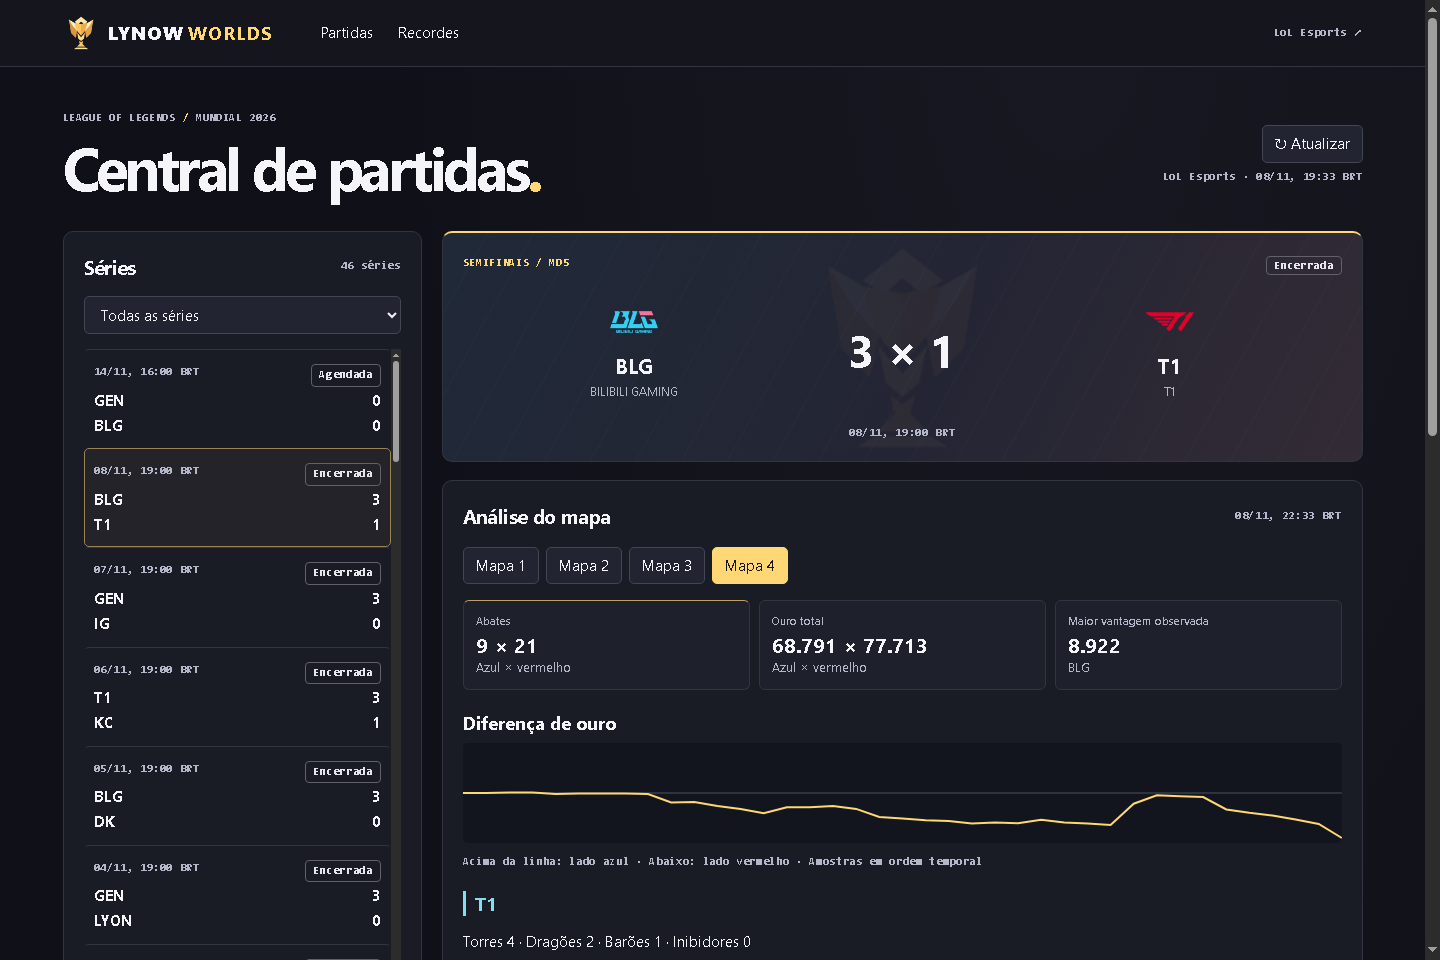
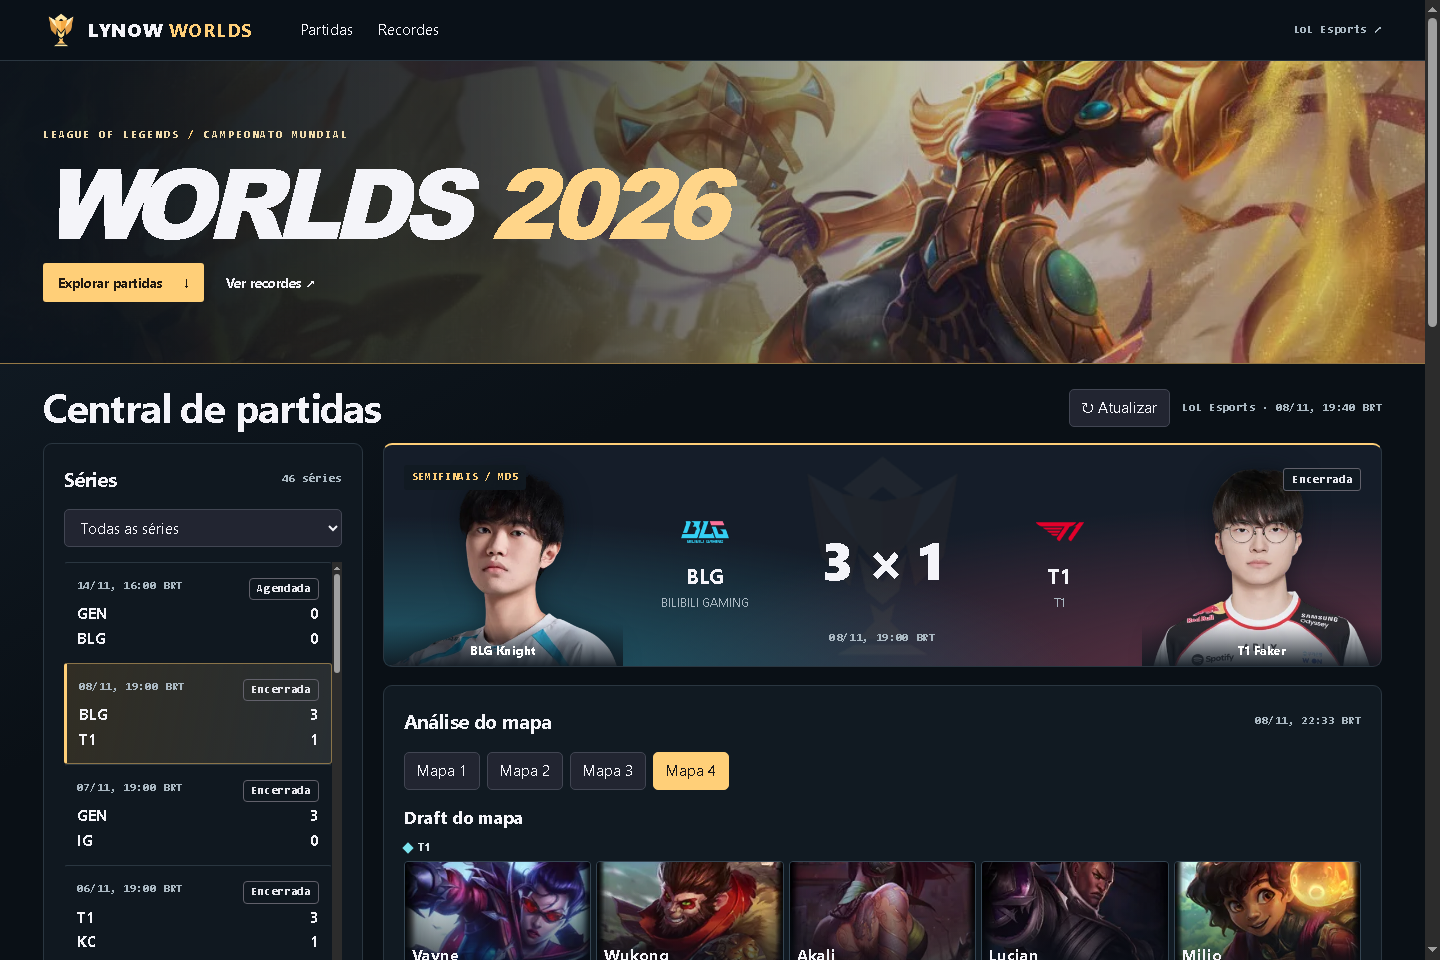
feat: redesenha a central com retratos dos atletas e draft interativo

diff --git a/public/style.css b/public/style.css
@@ -475,3 +475,69 @@ nav a:hover {
     grid-template-columns: minmax(0, 1fr);
   }
 }
+
+/* Championship broadcast identity */
+:root { --bg:#0a1016; --card:#111a22; --line:#2a3640; --gold:#ffcf78; --muted:#aab8c2; }
+body { background:linear-gradient(150deg,#15212c 0,#0a1016 45rem); }
+header { background:#0a1118; }
+.shell { width:min(1380px,94%); }
+.mast { height:60px; }
+.hero { position:relative; isolation:isolate; overflow:hidden; background:#1b2329; border-bottom:1px solid #967946; }
+.hero::before { content:""; position:absolute; inset:0; z-index:-1; background:linear-gradient(90deg,#0a131cf7 4%,#10161bc9 37%,#10182028 70%),url("/media/art/shurima.webp") center 38% / cover; }
+.hero-inner { min-height:clamp(220px,21vw,320px); display:flex; align-items:center; }
+.hero-copy { padding:28px 0; }
+.hero small { font-size:.72rem; letter-spacing:.19em; color:#f1dcac; }
+.hero h1 { margin:12px 0 18px; font:italic 950 clamp(3rem,6.8vw,7rem)/.91 "Arial Black","Segoe UI",sans-serif; letter-spacing:-.075em; }
+.hero h1 i { color:#ffd589; }
+.hero-links { display:flex; align-items:center; gap:22px; font-size:.88rem; font-weight:650; }
+.hero-links a:first-child { padding:10px 15px; background:#ffcf78; color:#211a11; border-radius:3px; }
+.hero-links span { margin-left:16px; }
+.intro { padding:24px 0 15px; }
+.intro h2 { font-size:clamp(1.65rem,3vw,2.65rem); line-height:1; }
+.sync { display:flex; align-items:center; gap:12px; }
+.card,.match { border-radius:9px; }
+@media(min-width:761px){.layout{grid-template-columns:minmax(220px,.64fr) minmax(0,2fr)}}
+.agenda { background:#101820; }
+.agenda .event { padding:12px; border-radius:3px; }
+.agenda .selected { background:linear-gradient(100deg,#66512b62,#282e32); border-color:#8b7449; border-left:3px solid var(--gold); }
+.match { background:radial-gradient(ellipse at 0% 110%,#246678 0,transparent 50%),radial-gradient(ellipse at 100% 110%,#6d3548 0,transparent 54%),#151d29; }
+.matchtop,.matchdate,.score { position:relative; z-index:2; }
+.matchtop small,.matchtop .badge { background:#111a22ec; border-radius:3px; padding:4px 8px; }
+.score { width:60%; margin:auto; min-height:140px; gap:8px; }
+.scoreline { font-variant-numeric:tabular-nums; font-size:clamp(1.6rem,3.6vw,3.6rem); font-weight:850; }
+.star { position:absolute; bottom:0; width:24%; height:90%; margin:0; pointer-events:none; }
+.star-0 {left:0}.star-1 {right:0}
+.star img {width:100%;height:100%;object-fit:contain;object-position:center bottom;filter:drop-shadow(0 0 12px #080d1388)}
+.star figcaption {position:absolute; bottom:0; left:0; right:0; padding:18px 4px 7px; text-align:center; color:white; background:linear-gradient(transparent,#101820ed);font-weight:800;font-size:.79rem}
+.draft h3 {margin:0;font-size:1.1rem}.draft-label {display:flex;align-items:center;gap:6px;color:#dce6eb;font-size:.76rem;font-weight:700;margin:10px 0 5px;}
+.dot {width:8px;height:8px;display:inline-block;transform:rotate(45deg)}.side-dot-0{background:#7ce4ef}.side-dot-1{background:#ff96ac}
+.picks {display:grid;grid-template-columns:repeat(5,minmax(0,1fr));gap:5px;}
+.pick {position:relative;isolation:isolate;overflow:hidden;height:clamp(80px,8.6vw,138px);background:#23303b;border-radius:4px;}
+.pick img {position:absolute;inset:0;width:100%;height:100%;object-fit:cover;object-position:50% 26%;z-index:-2;transition:transform .2s;}
+.pick:hover img {transform:scale(1.05)}
+.pick:after {content:"";position:absolute;inset:0;z-index:-1;background:linear-gradient(transparent 23%,#091018dc 93%);}
+.pick div {position:absolute;bottom:6px;left:7px;right:3px;}
+.pick small,.pick strong{display:block;line-height:1.15;overflow-wrap:anywhere}.pick small{font:500 .69rem/1.3 "Segoe UI",sans-serif;color:#d4dce1;letter-spacing:0}
+.pick strong{font-size:clamp(.74rem,1.1vw,1.04rem)}
+.draft {margin-bottom:20px}
+.metric {background:#19242e;border-color:#35424d}
+#records {grid-template-columns:repeat(3,minmax(0,1fr));gap:10px}
+.record-tile {position:relative;overflow:hidden;background:linear-gradient(125deg,#17232e,#273848);border:1px solid var(--line);border-radius:6px}
+.record-tile img {position:absolute;right:0;bottom:0;height:96%;width:45%;object-fit:contain;object-position:right bottom;}
+.record-tile .metric {position:relative;background:linear-gradient(90deg,#192530 45%,transparent 80%);border:0;min-height:108px;padding:17px;}
+.record-tile strong {font-size:1.85rem;line-height:1.25;color:#ffdb97}
+.player-id{display:flex;align-items:center;gap:9px}.player-id img{width:39px;height:43px;object-fit:cover;object-position:top;border-radius:4px;background:#293845}
+#analysis>p>a{color:var(--gold)}
+@media(max-width:760px){.hero-inner{min-height:188px}.hero::before{background-position:center,62% 33%}.intro{align-items:center}.sync{display:grid;gap:3px}.agenda #events{max-height:140px}.score{width:64%;min-height:128px}.team img{width:32px;height:32px}.star{width:21%;height:74%}.star figcaption{font-size:.65rem}.pick{height:90px}.pick div{left:4px}.pick small{font-size:.6rem}#records{grid-template-columns:repeat(2,minmax(0,1fr))}.hero small{letter-spacing:.09em}.intro #sync{font-size:.57rem}.record-tile .metric{padding:10px}.team span{font-size:.65rem}}
+@media(prefers-reduced-motion:reduce){.pick img{transition:none}}
+.pick{text-align:left;padding:0;border:1px solid #344451;}
+.pick:focus-visible{outline-offset:0}
+#player-sheet{padding:0;width:min(490px,92vw);overflow:hidden;color:#f8f8fa;background:#131e28;border:1px solid #67717a;border-radius:10px;}
+#player-sheet::backdrop{background:#070b10cc;backdrop-filter:blur(3px)}
+#player-sheet form{position:absolute;top:8px;right:8px;z-index:2}#player-sheet form button{font-size:1.45rem;padding:0 9px;background:#111b25}
+.sheet-hero{position:relative;isolation:isolate;overflow:hidden;height:235px;display:flex;align-items:end;padding:20px;}
+.sheet-art{position:absolute;z-index:-2;inset:0;width:100%;height:100%;object-fit:cover;object-position:50% 25%;opacity:.44}
+.sheet-photo{position:absolute;z-index:-1;right:0;bottom:0;height:95%;width:56%;object-fit:contain;object-position:bottom}
+.sheet-hero div{background:linear-gradient(90deg,#0c131ce6,transparent);padding:8px 16px 8px 0}
+.sheet-hero h2{font-size:2.2rem;line-height:1.05}.sheet-hero strong{color:var(--gold)}
+.sheet-stats{padding:12px;display:grid;grid-template-columns:repeat(3,1fr);gap:6px}

diff --git a/public/app.js b/public/app.js
@@ -1,5 +1,33 @@
 "use strict";
 const $ = (id) => document.getElementById(id);
+let catalog = {players:{}, champions:{}};
+let currentTeams = [];
+function portrait(name) { return catalog.players[name?.trim()]?.src; }
+function championArt(name) { return catalog.champions[name]?.src; }
+function championName(id) {
+  const names = {MonkeyKing:"Wukong", JarvanIV:"Jarvan IV", KSante:"K’Sante", Kaisa:"Kai’Sa", KogMaw:"Kog’Maw", Chogath:"Cho’Gath", Velkoz:"Vel’Koz", Leblanc:"LeBlanc", Renata:"Renata Glasc"};
+  return names[id] || id?.replace(/([a-z])([A-Z])/g,"$1 $2") || "A definir";
+}
+function lineups(teams) {
+  return '<section class="draft"><h3>Draft do mapa</h3>' + teams.map((team,side) =>
+    '<div class="draft-label"><i class="dot side-dot-' + side + '"></i>' + esc(team.name) + '</div><div class="picks">' +
+    team.players.map((p,index) => {
+      const art = championArt(p.champion);
+      return '<button class="pick" data-side="'+side+'" data-player="'+index+'" aria-label="Abrir ficha de '+esc(p.name)+' com '+esc(p.champion)+'">' + (art ? '<img src="'+esc(art)+'" alt="" loading="lazy">' : '') +
+        '<div><strong>'+esc(championName(p.champion))+'</strong><small>'+esc(p.name?.trim() || '')+'</small></div></button>';
+    }).join('') + '</div>').join('')+'</section>';
+}
+function spotlight(teams) {
+  const selected = events.find(e => e.id === eventId);
+  if (!selected) return;
+  const match = document.querySelector(".match");
+  match.querySelectorAll(".star").forEach(el => el.remove());
+  selected.teams.forEach((team,side) => {
+    const roster = teams.find(t => t.players?.some(p => p.name?.startsWith(team.code+" ")))?.players || [];
+    const player = [roster.find(p=>p.role==="mid"),...roster].find(p=>p && portrait(p.name));
+    if (player) match.insertAdjacentHTML("beforeend",'<figure class="star star-'+side+'"><img src="'+esc(portrait(player.name))+'" alt="'+esc(player.name.trim())+'"><figcaption>'+esc(player.name.trim())+'</figcaption></figure>');
+  });
+}
 const esc = (value) =>
   String(value ?? "").replace(
     /[&<>"']/g,
@@ -113,6 +141,7 @@ function list() {
       .join("") || "Nenhuma série neste filtro.";
 }
 function renderScore(e) {
+  document.querySelectorAll(".match .star").forEach(el=>el.remove());
   const stage = stages[e?.stage] || e?.stage || "Série selecionada";
   $("stage").textContent = [
     stage.replaceAll("_", " ").toUpperCase(),
@@ -219,7 +248,7 @@ function playerRow(player) {
     ? `<small title="Parcela do dano da equipe">${esc(share)} do time</small>`
     : "";
   return `<tr>
-    <td>${esc(name || "—")}<small>${esc(champion || "Escolha pendente")}</small></td>
+    <td><div class="player-id">${portrait(name)?'<img loading="lazy" src="'+esc(portrait(name))+'" alt="">':''}<div>${esc(name || "—")}<small>${esc(champion || "Escolha pendente")}</small></div></div></td>
     <td>${esc(kda)}</td><td>${esc(fmt(gold))}</td><td>${esc(fmt(damage))}${damageCell}</td>
     <td>${esc(fmt(cs))}</td><td>${esc(fmt(wards))} / ${esc(fmt(wardsDestroyed))}</td>
   </tr>`;
@@ -227,12 +256,15 @@ function playerRow(player) {
 function renderGame(data) {
   const teams = data.teams || [],
     peak = data.peak;
+  currentTeams = teams;
   $("sample").textContent = data.timestamp ? when(data.timestamp) : "";
   let html = data.notice ? "<p>" + esc(data.notice) + "</p>" : "";
   if (!teams.length) {
     $("analysis").innerHTML = html + "Sem telemetria para este mapa.";
     return;
   }
+  spotlight(teams);
+  html += lineups(teams);
   html +=
     '<div class="metrics">' +
     metric(
@@ -338,7 +370,10 @@ async function records() {
     $("coverage").textContent = data.coverage || "";
     $("records").innerHTML =
       (data.records || [])
-        .map((r) => metric(r.label, fmt(r.value), r.name))
+        .map((r) => {
+          const photo=portrait(r.name);
+          return '<div class="record-tile">'+(photo?'<img loading="lazy" src="'+esc(photo)+'" alt="">':'')+metric(r.label,fmt(r.value),r.name)+'</div>';
+        })
         .join("") || "Nenhum recorde disponível para a cobertura atual.";
   } catch (err) {
     $("records").textContent = err.message;
@@ -387,13 +422,31 @@ $("maps").onclick = (e) => {
   const b = e.target.closest("[data-id]");
   if (b) openMap(b.dataset.id);
 };
+$("analysis").addEventListener("click", e => {
+  const pick = e.target.closest(".pick");
+  if (!pick) return;
+  const team = currentTeams[Number(pick.dataset.side)];
+  const player = team?.players[Number(pick.dataset.player)];
+  if (!player) return;
+  const photo = portrait(player.name), art = championArt(player.champion);
+  $("sheet-content").innerHTML = '<div class="sheet-hero">'+(art?'<img class="sheet-art" src="'+esc(art)+'" alt="">':'')+
+    (photo?'<img class="sheet-photo" src="'+esc(photo)+'" alt="'+esc(player.name)+'">':'')+
+    '<div><small>'+esc(team.name)+'</small><h2 id="sheet-name">'+esc(player.name.trim())+'</h2><strong>'+esc(championName(player.champion))+'</strong></div></div>'+
+    '<div class="sheet-stats">'+[["Abates",player.kills],["Mortes",player.deaths],["Assistências",player.assists],["Dano",player.damage],["Ouro",player.gold],["CS",player.cs]].map(([k,v])=>metric(k,fmt(v))).join('')+'</div>';
+  $("player-sheet").showModal();
+});
 $("filter").onchange = () => openEvent(visible()[0]?.id || "");
 $("refresh").onclick = () => {
   refresh();
   records();
 };
-refresh();
-records();
+async function start() {
+  try {
+    const response = await fetch("/media/catalog.json");
+    if (response.ok) catalog = await response.json();
+  } finally { refresh(); records(); }
+}
+start();
 setInterval(() => {
   if (!document.hidden && !$("refresh").disabled) {
     refresh();

diff --git a/public/index.html b/public/index.html
@@ -30,18 +30,22 @@
         >
       </div>
     </header>
+    <section class="hero" aria-labelledby="hero-title">
+      <div class="shell hero-inner"><div class="hero-copy">
+        <small>LEAGUE OF LEGENDS <b>/</b> CAMPEONATO MUNDIAL</small>
+        <h1 id="hero-title">WORLDS <i>2026</i></h1>
+        <div class="hero-links"><a href="#partidas">Explorar partidas <span>↓</span></a><a href="#recordes">Ver recordes ↗</a></div>
+      </div></div>
+    </section>
     <main class="shell">
-      <div class="intro">
-        <div>
-          <small>LEAGUE OF LEGENDS <b>/</b> MUNDIAL 2026</small>
-          <h1>Central de partidas<span>.</span></h1>
-        </div>
+      <div class="intro" id="partidas">
+        <h2>Central de partidas</h2>
         <div class="sync">
           <button id="refresh">↻ Atualizar</button
           ><span id="sync" role="status"></span>
         </div>
       </div>
-      <div class="layout" id="partidas">
+      <div class="layout">
         <section class="card agenda">
           <div class="heading">
             <h2>Séries</h2>
@@ -83,6 +87,10 @@
         <div id="records">Carregando recordes…</div>
       </section>
     </main>
+    <dialog id="player-sheet" aria-labelledby="sheet-name">
+      <form method="dialog"><button autofocus aria-label="Fechar ficha">×</button></form>
+      <div id="sheet-content"></div>
+    </dialog>
     <footer class="shell">
       Lynow Worlds <span>Projeto independente · League of Legends Esports</span>
     </footer>

diff --git a/README.md b/README.md
@@ -18,6 +18,8 @@ Abra [localhost:3000](http://localhost:3000). O servidor usa a biblioteca padrã
 
 ![Central de partidas com série, mapas e curva de ouro](assets/painel.png)
 
+O draft é interativo. Clique na arte de um campeão para abrir a ficha do jogador naquele mapa, com foto, KDA, dano, ouro e CS. O catálogo desta edição reúne 96 retratos dos elencos do LoL Esports e as artes dos 103 campeões escolhidos. As imagens otimizadas em WebP acompanham o projeto e os endereços de origem estão em [public/media/catalog.json](public/media/catalog.json).
+
 ## Explorar o Mundial
 
 1. Filtre as séries por estado. O placar principal mostra os **mapas vencidos na série**, com horário de Brasília e formato do confronto.
